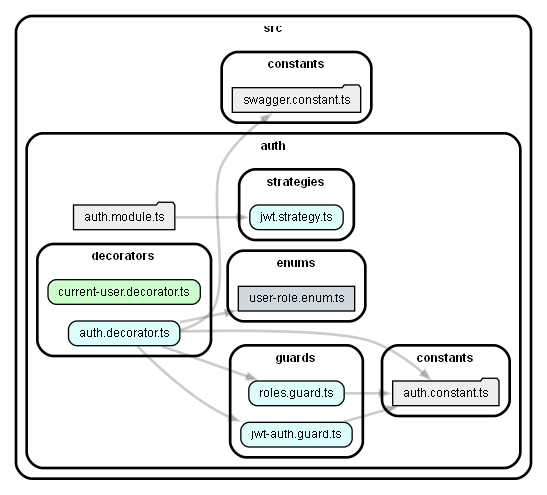
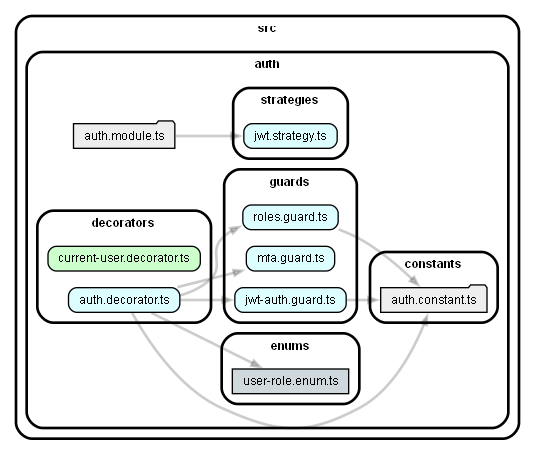
feat: auth + mfa (#11)

Changed region(s): [[0.0, 0.0308, 0.9869, 0.9846], [0.329, 0.8308, 0.3589, 0.8615]]

diff --git a/src/auth/guards/mfa.guard.spec.ts b/src/auth/guards/mfa.guard.spec.ts
@@ -1,0 +1,54 @@
+import { ExecutionContext, ForbiddenException } from '@nestjs/common';
+import { MfaGuard } from './mfa.guard';
+
+describe('MfaGuard', () => {
+  let guard: MfaGuard;
+
+  beforeEach(() => {
+    guard = new MfaGuard();
+  });
+
+  it('should be defined', () => {
+    expect(guard).toBeDefined();
+  });
+
+  describe('canActivate', () => {
+    let context: ExecutionContext;
+
+    beforeEach(() => {
+      context = {
+        switchToHttp: jest.fn().mockReturnThis(),
+        getRequest: jest.fn(),
+      } as unknown as ExecutionContext;
+    });
+
+    it('should return false if there is no user', () => {
+      const getRequestSpy = jest.fn().mockReturnValue({});
+      (context.switchToHttp().getRequest as jest.Mock) = getRequestSpy;
+
+      const result = guard.canActivate(context);
+
+      expect(result).toBe(false);
+    });
+
+    it('should throw ForbiddenException if user has aal1', () => {
+      const getRequestSpy = jest
+        .fn()
+        .mockReturnValue({ user: { aal: 'aal1' } });
+      (context.switchToHttp().getRequest as jest.Mock) = getRequestSpy;
+
+      expect(() => guard.canActivate(context)).toThrow(ForbiddenException);
+    });
+
+    it('should return true if user has aal2', () => {
+      const getRequestSpy = jest
+        .fn()
+        .mockReturnValue({ user: { aal: 'aal2' } });
+      (context.switchToHttp().getRequest as jest.Mock) = getRequestSpy;
+
+      const result = guard.canActivate(context);
+
+      expect(result).toBe(true);
+    });
+  });
+});

diff --git a/src/auth/decorators/auth.decorator.spec.ts b/src/auth/decorators/auth.decorator.spec.ts
@@ -1,6 +1,9 @@
 import { Auth } from './auth.decorator';
 import { IS_PUBLIC_KEY, ROLES_KEY } from '../constants/auth.constant';
 import { UserRole } from '../enums/user-role.enum';
+import { JwtAuthGuard } from '../guards/jwt-auth.guard';
+import { MfaGuard } from '../guards/mfa.guard';
+import { RolesGuard } from '../guards/roles.guard';
 
 jest.mock(
   '@nestjs/swagger',
@@ -30,8 +33,26 @@ describe('AuthDecorator', () => {
     });
   });
 
+  describe('User', () => {
+    it('should apply JwtAuthGuard and MfaGuard', () => {
+      class TestClass {
+        @Auth.User()
+        testMethod() {}
+      }
+
+      // eslint-disable-next-line @typescript-eslint/no-unsafe-assignment
+      const guards = Reflect.getMetadata(
+        '__guards__',
+        // eslint-disable-next-line @typescript-eslint/unbound-method
+        TestClass.prototype.testMethod,
+      );
+      expect(guards).toContain(JwtAuthGuard);
+      expect(guards).toContain(MfaGuard);
+    });
+  });
+
   describe('Admin', () => {
-    it('should set ROLES_KEY metadata to [ADMIN]', () => {
+    it('should set ROLES_KEY metadata to [ADMIN] and apply JwtAuthGuard, MfaGuard, and RolesGuard', () => {
       class TestClass {
         @Auth.Admin()
         testMethod() {}
@@ -44,6 +65,34 @@ describe('AuthDecorator', () => {
         TestClass.prototype.testMethod,
       );
       expect(metadata).toEqual([UserRole.ADMIN]);
+
+      // eslint-disable-next-line @typescript-eslint/no-unsafe-assignment
+      const guards = Reflect.getMetadata(
+        '__guards__',
+        // eslint-disable-next-line @typescript-eslint/unbound-method
+        TestClass.prototype.testMethod,
+      );
+      expect(guards).toContain(JwtAuthGuard);
+      expect(guards).toContain(MfaGuard);
+      expect(guards).toContain(RolesGuard);
+    });
+  });
+
+  describe('Mfa', () => {
+    it('should apply JwtAuthGuard and MfaGuard', () => {
+      class TestClass {
+        @Auth.Mfa()
+        testMethod() {}
+      }
+
+      // eslint-disable-next-line @typescript-eslint/no-unsafe-assignment
+      const guards = Reflect.getMetadata(
+        '__guards__',
+        // eslint-disable-next-line @typescript-eslint/unbound-method
+        TestClass.prototype.testMethod,
+      );
+      expect(guards).toContain(JwtAuthGuard);
+      expect(guards).toContain(MfaGuard);
     });
   });
 });

diff --git a/src/auth/decorators/auth.decorator.ts b/src/auth/decorators/auth.decorator.ts
@@ -9,28 +9,49 @@ import { IS_PUBLIC_KEY, ROLES_KEY } from '../constants/auth.constant';
 import { UserRole } from '../enums/user-role.enum';
 import { JwtAuthGuard } from '../guards/jwt-auth.guard';
 import { RolesGuard } from '../guards/roles.guard';
+import { MfaGuard } from '../guards/mfa.guard';
 
 export const Auth = {
   Public: () => applyDecorators(SetMetadata(IS_PUBLIC_KEY, true)),
 
   User: () =>
     applyDecorators(
-      UseGuards(JwtAuthGuard),
+      UseGuards(JwtAuthGuard, MfaGuard),
 
       ApiBearerAuth(SWAGGER_AUTH_KEY),
 
       ApiUnauthorizedResponse({ description: 'Unauthorized' }),
+
+      ApiForbiddenResponse({
+        description: 'Forbidden - Requires Multi-factor authentication',
+      }),
     ),
 
   Admin: () =>
     applyDecorators(
-      UseGuards(JwtAuthGuard, RolesGuard),
+      UseGuards(JwtAuthGuard, MfaGuard, RolesGuard),
       SetMetadata(ROLES_KEY, [UserRole.ADMIN]),
 
       ApiBearerAuth(SWAGGER_AUTH_KEY),
 
       ApiUnauthorizedResponse({ description: 'Unauthorized' }),
 
-      ApiForbiddenResponse({ description: 'Forbidden - Requires Admin role' }),
+      ApiForbiddenResponse({
+        description:
+          'Forbidden - Requires Multi-factor authentication and Admin role',
+      }),
+    ),
+
+  Mfa: () =>
+    applyDecorators(
+      UseGuards(JwtAuthGuard, MfaGuard),
+
+      ApiBearerAuth(SWAGGER_AUTH_KEY),
+
+      ApiUnauthorizedResponse({ description: 'Unauthorized' }),
+
+      ApiForbiddenResponse({
+        description: 'Forbidden - Requires Multi-factor authentication',
+      }),
     ),
 };

diff --git a/src/auth/guards/mfa.guard.ts b/src/auth/guards/mfa.guard.ts
@@ -1,0 +1,26 @@
+import {
+  CanActivate,
+  ExecutionContext,
+  Injectable,
+  ForbiddenException,
+} from '@nestjs/common';
+
+@Injectable()
+export class MfaGuard implements CanActivate {
+  canActivate(context: ExecutionContext): boolean {
+    const request = context
+      .switchToHttp()
+      .getRequest<{ user?: { aal?: string } }>();
+    const user = request.user;
+
+    if (!user) {
+      return false;
+    }
+
+    if (user.aal !== 'aal2') {
+      throw new ForbiddenException('Multi-factor authentication required');
+    }
+
+    return true;
+  }
+}

diff --git a/src/auth/strategies/jwt.strategy.spec.ts b/src/auth/strategies/jwt.strategy.spec.ts
@@ -45,6 +45,8 @@ describe('JwtStrategy', () => {
         userId: 'user-id',
         email: '[email redacted]',
         role: 'admin',
+        aal: undefined,
+        amr: undefined,
       });
     });
 
@@ -61,6 +63,8 @@ describe('JwtStrategy', () => {
         userId: 'user-id',
         email: '[email redacted]',
         role: 'authenticated',
+        aal: undefined,
+        amr: undefined,
       });
     });
 
@@ -80,6 +84,28 @@ describe('JwtStrategy', () => {
         userId: 'user-id',
         email: '[email redacted]',
         role: 'admin',
+        aal: undefined,
+        amr: undefined,
+      });
+    });
+
+    it('should return user object with aal and amr from payload', () => {
+      const payload = {
+        sub: 'user-id',
+        email: '[email redacted]',
+        role: 'authenticated',
+        aal: 'aal2',
+        amr: [{ method: 'totp', timestamp: 123456789 }],
+      };
+
+      const result = strategy.validate(payload);
+
+      expect(result).toEqual({
+        userId: 'user-id',
+        email: '[email redacted]',
+        role: 'authenticated',
+        aal: 'aal2',
+        amr: [{ method: 'totp', timestamp: 123456789 }],
       });
     });
   });

diff --git a/src/auth/strategies/jwt.strategy.ts b/src/auth/strategies/jwt.strategy.ts
@@ -4,7 +4,6 @@ import { PassportStrategy } from '@nestjs/passport';
 import { passportJwtSecret } from 'jwks-rsa';
 import { ExtractJwt, Strategy } from 'passport-jwt';
 
-// Định nghĩa kiểu dữ liệu rõ ràng thay vì dùng 'any'
 interface JwtPayload {
   sub: string;
   email?: string;
@@ -12,6 +11,8 @@ interface JwtPayload {
   app_metadata?: {
     role?: string;
   };
+  aal?: string;
+  amr?: Array<{ method: string; timestamp: number }>;
 }
 
 @Injectable()
@@ -20,6 +21,7 @@ export class JwtStrategy extends PassportStrategy(Strategy) {
     const SUPABASE_PROJECT_ID = configService.getOrThrow<string>(
       'SUPABASE_PROJECT_ID',
     );
+
     const supabaseUrl = `https://${SUPABASE_PROJECT_ID}.supabase.co`;
 
     super({
@@ -38,12 +40,13 @@ export class JwtStrategy extends PassportStrategy(Strategy) {
     });
   }
 
-  // Xóa từ khóa 'async' vì không sử dụng 'await' bên trong
   validate(payload: JwtPayload) {
     return {
       userId: payload.sub,
       email: payload.email,
       role: payload.app_metadata?.role || payload.role,
+      aal: payload.aal,
+      amr: payload.amr,
     };
   }
 }

diff --git a/src/auth/decorators/current-user.decorator.ts b/src/auth/decorators/current-user.decorator.ts
@@ -5,6 +5,8 @@ import type { Request } from 'express';
 export interface JwtPayload {
   userId: string;
   email: string;
+  aal?: string;
+  amr?: Array<{ method: string; timestamp: number }>;
   [key: string]: unknown;
 }
 

diff --git a/src/index.ts b/src/index.ts
@@ -8,6 +8,7 @@ export * from './auth/decorators/auth.decorator';
 export * from './auth/decorators/current-user.decorator';
 export * from './auth/enums/user-role.enum';
 export * from './auth/guards/jwt-auth.guard';
+export * from './auth/guards/mfa.guard';
 export * from './auth/guards/roles.guard';
 export * from './auth/strategies/jwt.strategy';
 export * from './constants/swagger.constant';